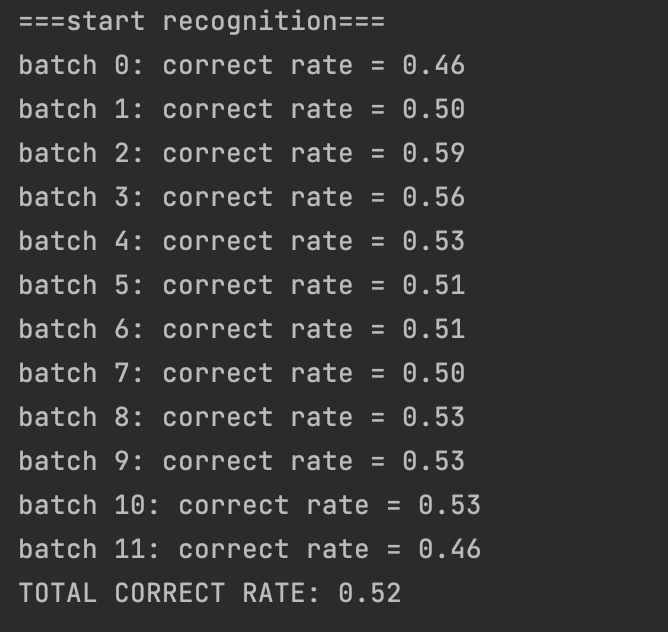
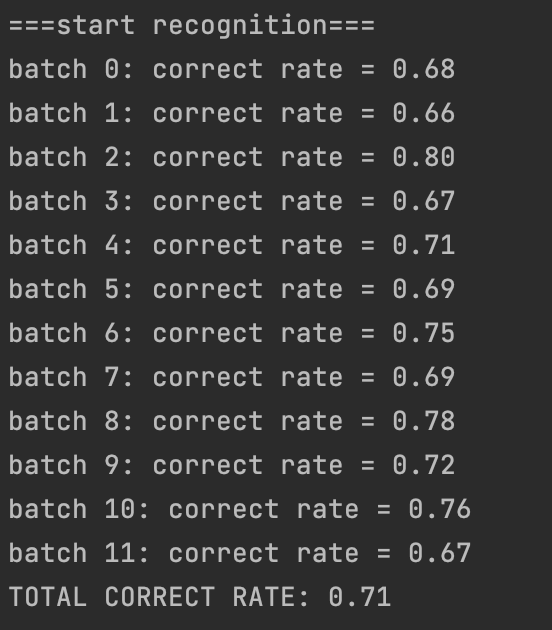
update: 竞争编码部分结束

diff --git a/texture_CompCode.py b/texture_CompCode.py
@@ -22,7 +22,7 @@ def prepare_transform_for_image():
     global preprocessing
     global testprocessing
     rotation = transforms.RandomRotation(5)
-    resized_cropping = transforms.Resize((112, 112))
+    resized_cropping = transforms.Resize((32, 32))
     contrast_brightness_adjustment = transforms.ColorJitter(brightness=0.5, contrast=0.5)
     color_shift = transforms.ColorJitter(hue=0.14)
     preprocessing = transforms.Compose(
@@ -48,9 +48,9 @@ def prepare_transform_for_image():
 class Gabor_filters:
     num_filters = 6
     num_points = 35
-    sigma = 1.5
+    sigma = 1.7
     filters = []
-    frequency = 0.05
+    frequency = 0.01
     band = np.pi/6
 
 
@@ -78,7 +78,9 @@ class Gabor_filters:
                 plt.subplot(2,3,temp+1)
                 plt.imshow(gabor_responses[temp],cmap='gray')
             plt.show()
-        winner = np.min(gabor_responses,axis=0)
+        winner = np.argmin(gabor_responses,axis=0)
+        # 标准化
+        winner = (winner - np.max(np.max(winner))) * -1
         output = (winner / np.max(np.max(winner))) * 255
         return output.reshape(1, -1)[0]
 

diff --git a/README.md b/README.md
@@ -27,3 +27,7 @@
     测试集平均正确率为93.9%
 
     ![image-20221224163140306](/Users/wuyihang/Library/CloudStorage/OneDrive-个人/my_idea/img/image-20221224163140306.png)
+- 方向特征：竞争编码
+  - IITD：89%
+  - CASIA：74%
+  - tongji：52%
